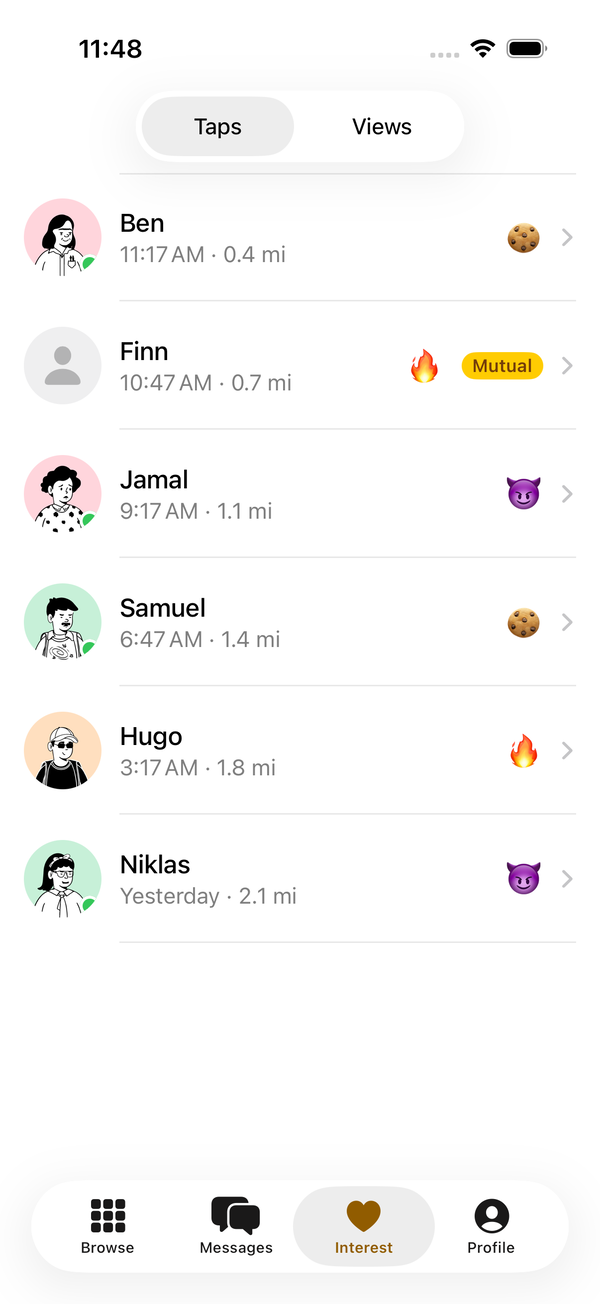
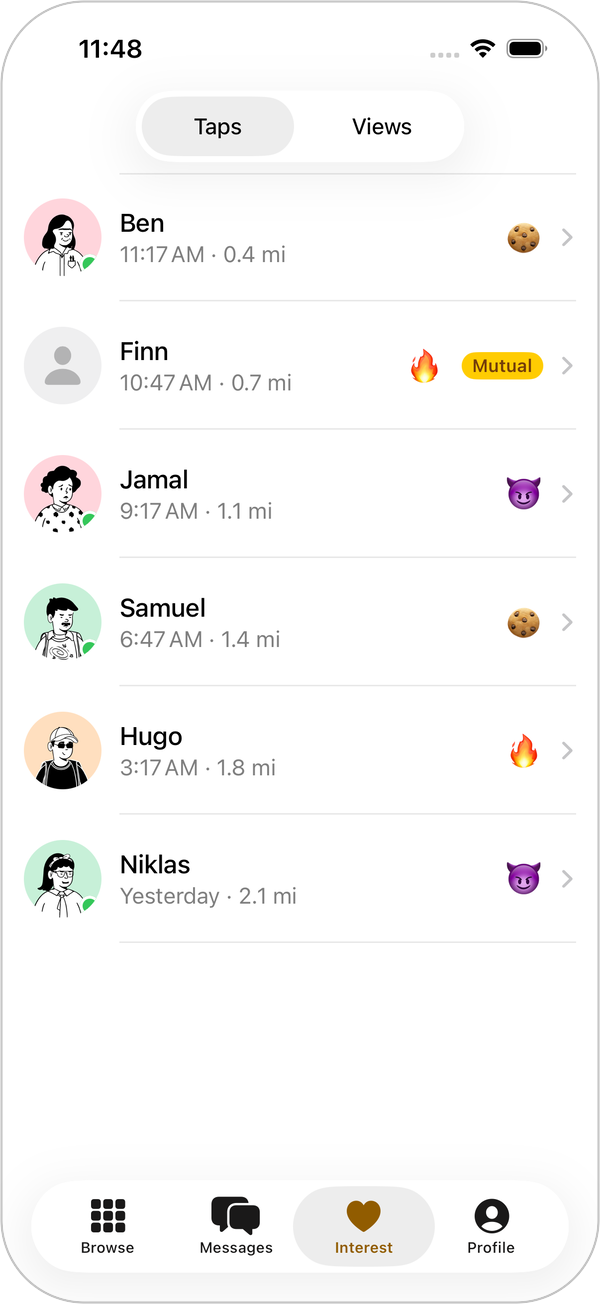
Show the README screenshots as a captioned grid
The two loose rows of screenshots wrapped unevenly and had no labels. They
are now a three-column table with captions, rounded like the iPhone's
display, and scripts/readme-screenshots.sh makes them from a CI run's
screenshots artifact.

diff --git a/README.md b/README.md
@@ -6,16 +6,18 @@ and open source Grindr client. No ads, no trackers: the app talks only to Grindr
 Not affiliated with, endorsed or sponsored by Grindr LLC. Using an unofficial client may break
 Grindr's terms of service.
 
-<p align="center">
-  <img src="docs/screenshots/welcome.png" width="260" alt="Welcome screen with the Open Grind logo, its privacy promises and buttons to sign in or try the demo">
-  <img src="docs/screenshots/nearby.png" width="260" alt="Nearby grid of profile photos with names, ages and online dots">
-  <img src="docs/screenshots/profile.png" width="260" alt="A profile with a large photo, online status, about text, stats and a Message button">
-</p>
-<p align="center">
-  <img src="docs/screenshots/chat.png" width="260" alt="A chat with yellow outgoing and grey incoming bubbles, a Read receipt and the message field">
-  <img src="docs/screenshots/messages.png" width="260" alt="Inbox with search, photos, last messages and times">
-  <img src="docs/screenshots/interest.png" width="260" alt="Taps received, with tap emoji, distances and a Mutual badge">
-</p>
+<table align="center">
+  <tr>
+    <td align="center" width="33%"><img src="docs/screenshots/nearby.png" width="240" alt="Nearby grid of profile photos with names, ages and online dots"><br><b>Nearby</b></td>
+    <td align="center" width="33%"><img src="docs/screenshots/profile.png" width="240" alt="A profile with a large photo, online status, about text, stats and a Message button"><br><b>Profiles</b></td>
+    <td align="center" width="33%"><img src="docs/screenshots/chat.png" width="240" alt="A chat with yellow outgoing and grey incoming bubbles, a Read receipt and the message field"><br><b>Chats</b></td>
+  </tr>
+  <tr>
+    <td align="center" width="33%"><img src="docs/screenshots/messages.png" width="240" alt="Inbox with search, photos, last messages and times"><br><b>Messages</b></td>
+    <td align="center" width="33%"><img src="docs/screenshots/interest.png" width="240" alt="Taps received, with tap emoji, distances and a Mutual badge"><br><b>Interest</b></td>
+    <td align="center" width="33%"><img src="docs/screenshots/welcome.png" width="240" alt="Welcome screen with the Open Grind logo, its privacy promises and buttons to sign in or try the demo"><br><b>Demo without an account</b></td>
+  </tr>
+</table>
 
 <sub>Screenshots of the built-in demo on an iPhone 17 Pro simulator, taken by the UI tests on CI.
 Everyone shown is made up; the avatars are DiceBear's Notionists by Zoish (CC0).</sub>

diff --git a/CLAUDE.md b/CLAUDE.md
@@ -43,11 +43,10 @@ it is an iOS app, built and tested on GitHub Actions (macOS runner).
 - GitHub CI: `.github/workflows/ios.yml` (macos-26): xcframework, `swift test` on macOS, device build,
   simulator unit + UI tests, screenshots artifact (`gh run download <id> -n screenshots`).
   The iOS UI cannot be compiled on Linux; check CI after every app change.
-- README screenshots: `docs/screenshots/{welcome,nearby,profile,chat,messages,interest}.png`, from a
-  green CI run's `screenshots` artifact (`01-welcome`, `03-browse`, `05-profile`, `07-chat`,
-  `08-messages`, `09-interest`; names in its `manifest.json`), resized to 600 px wide with metadata
-  stripped (`magick … -resize 600x -strip`, then `oxipng -o 4 --strip all`). Refresh them when the
-  UI changes visibly.
+- README screenshots: `docs/screenshots/*.png`, shown as a captioned 3-column table. Refresh them
+  from a green CI run when the UI changes visibly: `gh run download <id> -n screenshots -D <dir>`, then
+  `nix shell nixpkgs#imagemagick nixpkgs#oxipng nixpkgs#jq -c scripts/readme-screenshots.sh <dir>`
+  (picks the tour screenshots by name from `manifest.json`, 600 px, rounded corners, stripped).
 
 ## Gotchas
 - Sign-in is email only, deliberately (decided 2026-10-20; reasons in README "Sign-in"). Apple: no
